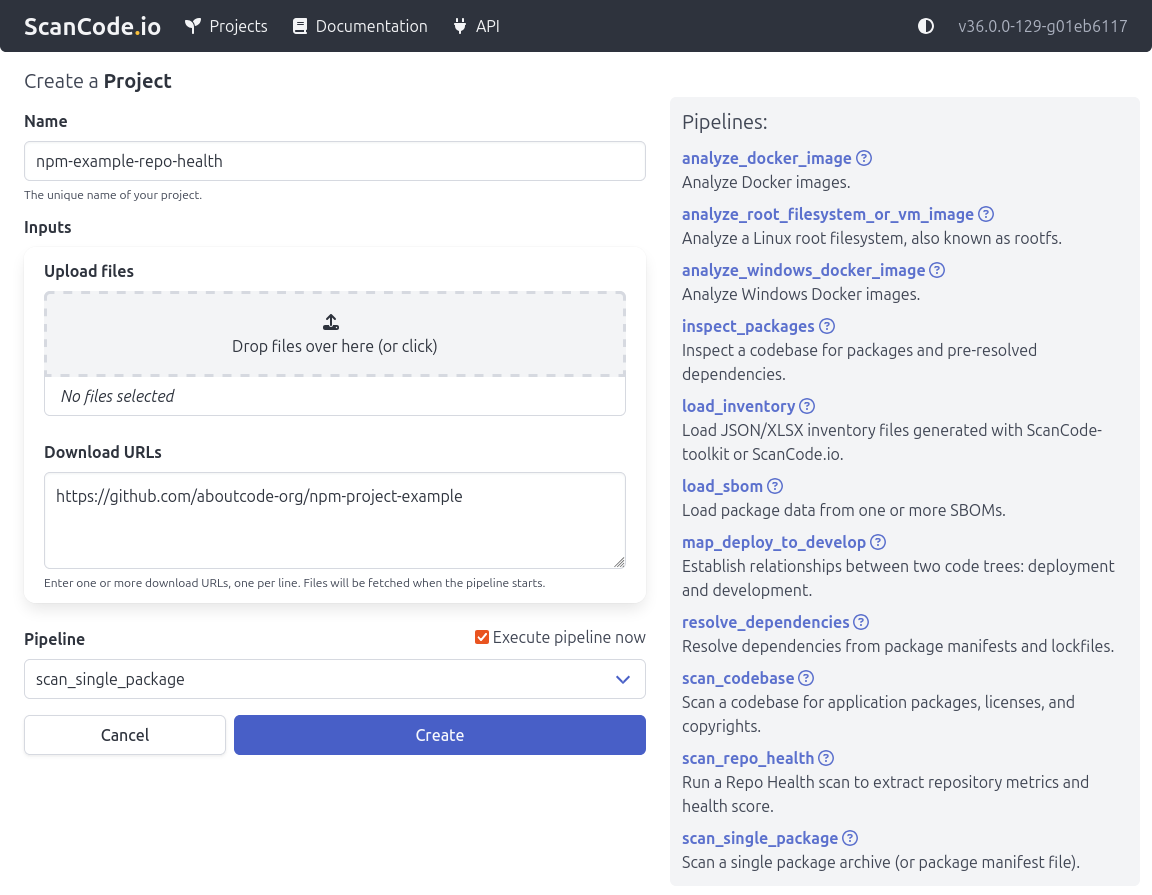
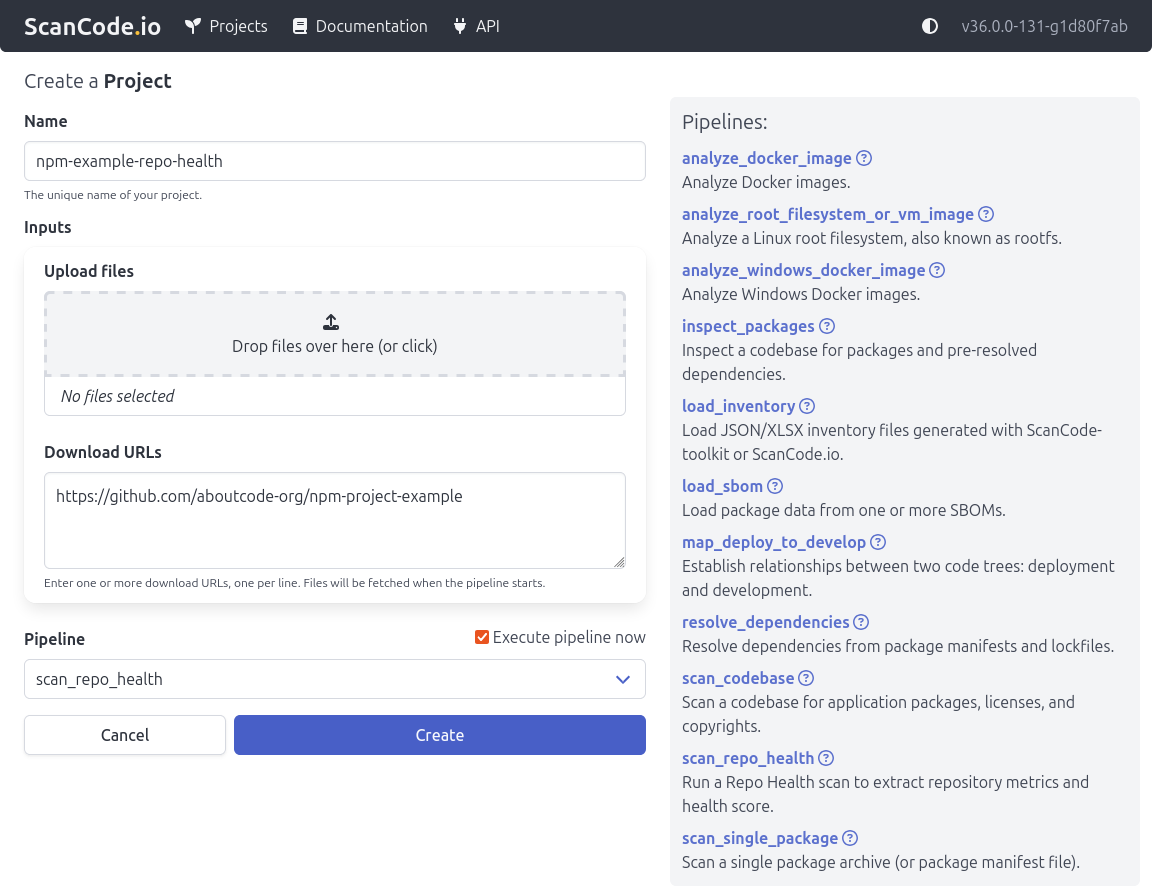
Move the implementation logic into the pipes Fix a typo in the image documentation

diff --git a/scanpipe/pipelines/scan_repo_health.py b/scanpipe/pipelines/scan_repo_health.py
@@ -19,24 +19,19 @@
 #
 # ScanCode.io is a free software code scanning tool from nexB Inc. and others.
 # Visit https://github.com/aboutcode-org/scancode.io for support and download.
-import json
-import subprocess
-import urllib.parse
-from os import environ
 
 from scanpipe.pipelines import Pipeline
-from scanpipe.pipes import run_command_safely
-
-GRIMOIRELAB_METRICS_EXECUTABLE = environ.get("GRIMOIRELAB_METRICS_EXECUTABLE", "")
-GRIMOIRELAB_OPENSEARCH_INDEX = environ.get("GRIMOIRELAB_OPENSEARCH_INDEX", "")
-GRIMOIRELAB_OPENSEARCH_PASSWORD = environ.get("GRIMOIRELAB_OPENSEARCH_PASSWORD", "")
-GRIMOIRELAB_OPENSEARCH_URL = environ.get("GRIMOIRELAB_OPENSEARCH_URL", "")
-GRIMOIRELAB_OPENSEARCH_USERNAME = environ.get("GRIMOIRELAB_OPENSEARCH_USERNAME", "")
-GRIMOIRELAB_PASSWORD = environ.get("GRIMOIRELAB_PASSWORD", "")
-GRIMOIRELAB_URL = environ.get("GRIMOIRELAB_URL", "")
-GRIMOIRELAB_USERNAME = environ.get("GRIMOIRELAB_USERNAME", "")
-GRIMOIRELAB_ECOSYSTEM = environ.get("GRIMOIRELAB_ECOSYSTEM", "")
-GRIMOIRELAB_PROJECT = environ.get("GRIMOIRELAB_PROJECT", "")
+from scanpipe.pipes import repo_health
+from scanpipe.pipes.repo_health import GRIMOIRELAB_ECOSYSTEM
+from scanpipe.pipes.repo_health import GRIMOIRELAB_METRICS_EXECUTABLE
+from scanpipe.pipes.repo_health import GRIMOIRELAB_OPENSEARCH_INDEX
+from scanpipe.pipes.repo_health import GRIMOIRELAB_OPENSEARCH_PASSWORD
+from scanpipe.pipes.repo_health import GRIMOIRELAB_OPENSEARCH_URL
+from scanpipe.pipes.repo_health import GRIMOIRELAB_OPENSEARCH_USERNAME
+from scanpipe.pipes.repo_health import GRIMOIRELAB_PASSWORD
+from scanpipe.pipes.repo_health import GRIMOIRELAB_PROJECT
+from scanpipe.pipes.repo_health import GRIMOIRELAB_URL
+from scanpipe.pipes.repo_health import GRIMOIRELAB_USERNAME
 
 
 class ScanRepoHealth(Pipeline):
@@ -71,60 +66,16 @@ class ScanRepoHealth(Pipeline):
 
     def get_repo_url_input(self):
         """Validate and extract the repository URL from the project's input sources"""
-        if len(self.project.input_sources) != 1:
-            raise ValueError("Expected exactly one input source")
-
-        self.repo_url = self.project.input_sources[0]["download_url"]
-        if not is_valid_vcs_url(self.repo_url):
-            raise ValueError(
-                "Invalid input source: the pipeline accepts only a valid repository URL"
-            )
-
-        self.repo_url = self.repo_url.replace("git://", "https://")
-        if not self.repo_url.endswith(".git"):
-            self.repo_url += ".git"
+        self.repo_url = repo_health.get_repo_url_input(project=self.project)
 
     def collect_and_store_grimoire_metric(self):
         """
         Run the grimoirelab-metrics command against the input source.
         Save the generated metrics JSON to the project output directory.
         """
-        self.metrics_output_path = self.project.get_output_file_path("metrics", "json")
-        command_args = [
-            GRIMOIRELAB_METRICS_EXECUTABLE,
-            self.repo_url,
-            "--grimoirelab-url",
-            GRIMOIRELAB_URL,
-            "--grimoirelab-user",
-            GRIMOIRELAB_USERNAME,
-            "--grimoirelab-password",
-            GRIMOIRELAB_PASSWORD,
-            "--grimoirelab-ecosystem",
-            GRIMOIRELAB_ECOSYSTEM,
-            "--grimoirelab-project",
-            GRIMOIRELAB_PROJECT,
-            "--opensearch-url",
-            GRIMOIRELAB_OPENSEARCH_URL,
-            "--opensearch-index",
-            GRIMOIRELAB_OPENSEARCH_INDEX,
-            "--opensearch-user",
-            GRIMOIRELAB_OPENSEARCH_USERNAME,
-            "--opensearch-password",
-            GRIMOIRELAB_OPENSEARCH_PASSWORD,
-            "--output",
-            str(self.metrics_output_path),
-        ]
-
-        try:
-            run_command_safely(command_args=command_args)
-            self.log("GrimoireLab metrics pipeline completed successfully")
-        except subprocess.SubprocessError:
-            raise RuntimeError("Grimoirelab-metrics client failure")
-        except FileNotFoundError:
-            raise FileNotFoundError(
-                "Grimoirelab-metrics not found. "
-                "Please ensure grimoirelab-metrics is correctly configured."
-            )
+        self.metrics_output_path = repo_health.collect_and_store_grimoire_metric(
+            project=self.project, repo_url=self.repo_url, logger=self.log
+        )
 
     def format_metrics_output(self):
         """
@@ -132,65 +83,6 @@ class ScanRepoHealth(Pipeline):
         score, and metrics from the generated JSON and overwriting it with a
         simplified structure, and updating the project's extra data.
         """
-        if not self.metrics_output_path.exists():
-            raise FileNotFoundError(
-                "GrimoireLab client did not return a valid metrics JSON file"
-            )
-
-        with open(self.metrics_output_path) as f:
-            data = json.load(f)
-
-        if not isinstance(data, dict):
-            raise ValueError("Invalid metrics JSON: Expected a JSON object.")
-
-        package_data = data.get("packages")
-        if not package_data or not isinstance(package_data, dict):
-            raise ValueError(
-                "Invalid metrics JSON: Missing or malformed 'packages' section."
-            )
-
-        packages = list(package_data.values())
-        if not packages:
-            raise ValueError("Invalid metrics JSON: 'packages' contains no data.")
-
-        target_package = packages[0]
-        repository = target_package.get("repository")
-        score = target_package.get("score")
-        metrics = target_package.get("metrics")
-
-        if repository is None or score is None or metrics is None:
-            raise ValueError(
-                f"Invalid metrics JSON. missing or null field(s): "
-                f"repository: {repository}, score: {score}, metrics: {metrics}"
-            )
-
-        result = {
-            "repository": repository,
-            "score": score,
-            "metrics": metrics,
-        }
-
-        with open(self.metrics_output_path, "w") as f:
-            json.dump(result, f)
-
-        self.project.update_extra_data(result)
-
-
-def is_valid_vcs_url(url):
-    """Determine whether the URL string has the expected syntax of a VCS repository."""
-    if not isinstance(url, str) or not url:
-        return False
-
-    if any(char.isspace() for char in url):
-        return False
-
-    forbidden_chars = ["|", ";", "&", "`", "$(", ">", "<", "&&", "||"]
-    if any(char in url for char in forbidden_chars):
-        return False
-
-    parsed = urllib.parse.urlparse(url)
-    valid_schemes = {"https", "http", "git"}
-    if parsed.scheme in valid_schemes and parsed.netloc:
-        return True
-
-    return False
+        repo_health.format_metrics_output(
+            project=self.project, metrics_output_path=self.metrics_output_path
+        )

diff --git a/scanpipe/pipes/repo_health.py b/scanpipe/pipes/repo_health.py
@@ -1,0 +1,171 @@
+# SPDX-License-Identifier: Apache-2.0
+#
+# http://nexb.com and https://github.com/aboutcode-org/scancode.io
+# The ScanCode.io software is licensed under the Apache License version 2.0.
+# Data generated with ScanCode.io is provided as-is without warranties.
+# ScanCode is a trademark of nexB Inc.
+#
+# You may not use this software except in compliance with the License.
+# You may obtain a copy of the License at: http://apache.org/licenses/LICENSE-2.0
+# Unless required by applicable law or agreed to in writing, software distributed
+# under the License is distributed on an "AS IS" BASIS, WITHOUT WARRANTIES OR
+# CONDITIONS OF ANY KIND, either express or implied. See the License for the
+# specific language governing permissions and limitations under the License.
+#
+# Data Generated with ScanCode.io is provided on an "AS IS" BASIS, WITHOUT WARRANTIES
+# OR CONDITIONS OF ANY KIND, either express or implied. No content created from
+# ScanCode.io should be considered or used as legal advice. Consult an Attorney
+# for any legal advice.
+#
+# ScanCode.io is a free software code scanning tool from nexB Inc. and others.
+# Visit https://github.com/aboutcode-org/scancode.io for support and download.
+
+import json
+import subprocess
+import urllib.parse
+from os import environ
+
+from scanpipe.pipes import run_command_safely
+
+GRIMOIRELAB_METRICS_EXECUTABLE = environ.get("GRIMOIRELAB_METRICS_EXECUTABLE", "")
+GRIMOIRELAB_OPENSEARCH_INDEX = environ.get("GRIMOIRELAB_OPENSEARCH_INDEX", "")
+GRIMOIRELAB_OPENSEARCH_PASSWORD = environ.get("GRIMOIRELAB_OPENSEARCH_PASSWORD", "")
+GRIMOIRELAB_OPENSEARCH_URL = environ.get("GRIMOIRELAB_OPENSEARCH_URL", "")
+GRIMOIRELAB_OPENSEARCH_USERNAME = environ.get("GRIMOIRELAB_OPENSEARCH_USERNAME", "")
+GRIMOIRELAB_PASSWORD = environ.get("GRIMOIRELAB_PASSWORD", "")
+GRIMOIRELAB_URL = environ.get("GRIMOIRELAB_URL", "")
+GRIMOIRELAB_USERNAME = environ.get("GRIMOIRELAB_USERNAME", "")
+GRIMOIRELAB_ECOSYSTEM = environ.get("GRIMOIRELAB_ECOSYSTEM", "")
+GRIMOIRELAB_PROJECT = environ.get("GRIMOIRELAB_PROJECT", "")
+
+
+def get_repo_url_input(project):
+    """Validate and extract the repository URL from the project's input sources"""
+    if len(project.input_sources) != 1:
+        raise ValueError("Expected exactly one input source")
+
+    repo_url = project.input_sources[0]["download_url"]
+    if not is_valid_vcs_url(repo_url):
+        raise ValueError(
+            "Invalid input source: the pipeline accepts only a valid repository URL"
+        )
+
+    repo_url = repo_url.replace("git://", "https://")
+    if not repo_url.endswith(".git"):
+        repo_url += ".git"
+
+    return repo_url
+
+
+def collect_and_store_grimoire_metric(project, repo_url, logger=None):
+    """
+    Run the grimoirelab-metrics command against the input source.
+    Save the generated metrics JSON to the project output directory.
+    """
+    metrics_output_path = project.get_output_file_path("metrics", "json")
+    command_args = [
+        GRIMOIRELAB_METRICS_EXECUTABLE,
+        repo_url,
+        "--grimoirelab-url",
+        GRIMOIRELAB_URL,
+        "--grimoirelab-user",
+        GRIMOIRELAB_USERNAME,
+        "--grimoirelab-password",
+        GRIMOIRELAB_PASSWORD,
+        "--grimoirelab-ecosystem",
+        GRIMOIRELAB_ECOSYSTEM,
+        "--grimoirelab-project",
+        GRIMOIRELAB_PROJECT,
+        "--opensearch-url",
+        GRIMOIRELAB_OPENSEARCH_URL,
+        "--opensearch-index",
+        GRIMOIRELAB_OPENSEARCH_INDEX,
+        "--opensearch-user",
+        GRIMOIRELAB_OPENSEARCH_USERNAME,
+        "--opensearch-password",
+        GRIMOIRELAB_OPENSEARCH_PASSWORD,
+        "--output",
+        str(metrics_output_path),
+    ]
+
+    try:
+        run_command_safely(command_args=command_args)
+        logger("GrimoireLab metrics pipeline completed successfully")
+        return metrics_output_path
+    except subprocess.SubprocessError:
+        raise RuntimeError("Grimoirelab-metrics client failure")
+    except FileNotFoundError:
+        raise FileNotFoundError(
+            "Grimoirelab-metrics not found. "
+            "Please ensure grimoirelab-metrics is correctly configured."
+        )
+
+
+def format_metrics_output(project, metrics_output_path):
+    """
+    Format the GrimoireLab metrics output by extracting the repository URL,
+    score, and metrics from the generated JSON and overwriting it with a
+    simplified structure, and updating the project's extra data.
+    """
+    if not metrics_output_path.exists():
+        raise FileNotFoundError(
+            "GrimoireLab client did not return a valid metrics JSON file"
+        )
+
+    with open(metrics_output_path) as f:
+        data = json.load(f)
+
+    if not isinstance(data, dict):
+        raise ValueError("Invalid metrics JSON: Expected a JSON object.")
+
+    package_data = data.get("packages")
+    if not package_data or not isinstance(package_data, dict):
+        raise ValueError(
+            "Invalid metrics JSON: Missing or malformed 'packages' section."
+        )
+
+    packages = list(package_data.values())
+    if not packages:
+        raise ValueError("Invalid metrics JSON: 'packages' contains no data.")
+
+    target_package = packages[0]
+    repository = target_package.get("repository")
+    score = target_package.get("score")
+    metrics = target_package.get("metrics")
+
+    if repository is None or score is None or metrics is None:
+        raise ValueError(
+            f"Invalid metrics JSON. missing or null field(s): "
+            f"repository: {repository}, score: {score}, metrics: {metrics}"
+        )
+
+    result = {
+        "repository": repository,
+        "score": score,
+        "metrics": metrics,
+    }
+
+    with open(metrics_output_path, "w") as f:
+        json.dump(result, f)
+
+    project.update_extra_data(result)
+
+
+def is_valid_vcs_url(url):
+    """Determine whether the URL string has the expected syntax of a VCS repository."""
+    if not isinstance(url, str) or not url:
+        return False
+
+    if any(char.isspace() for char in url):
+        return False
+
+    forbidden_chars = ["|", ";", "&", "`", "$(", ">", "<", "&&", "||"]
+    if any(char in url for char in forbidden_chars):
+        return False
+
+    parsed = urllib.parse.urlparse(url)
+    valid_schemes = {"https", "http", "git"}
+    if parsed.scheme in valid_schemes and parsed.netloc:
+        return True
+
+    return False

diff --git a/scanpipe/tests/pipes/test_scan_repo_health.py b/scanpipe/tests/pipes/test_scan_repo_health.py
@@ -31,7 +31,7 @@ from unittest.mock import patch
 from django.test import TestCase
 
 from scanpipe.pipelines.scan_repo_health import ScanRepoHealth
-from scanpipe.pipelines.scan_repo_health import is_valid_vcs_url
+from scanpipe.pipes.repo_health import is_valid_vcs_url
 
 
 class ScanRepoGrimoirelabTest(TestCase):
@@ -47,7 +47,7 @@ class ScanRepoGrimoirelabTest(TestCase):
         self.pipeline.project.get_output_file_path.return_value = "metrics.json"
         self.pipeline.log = MagicMock()
 
-    @patch("scanpipe.pipelines.scan_repo_health.run_command_safely")
+    @patch("scanpipe.pipes.repo_health.run_command_safely")
     def test_collect_and_store_grimoire_metric_called_process_error(
         self, mock_run_command
     ):
